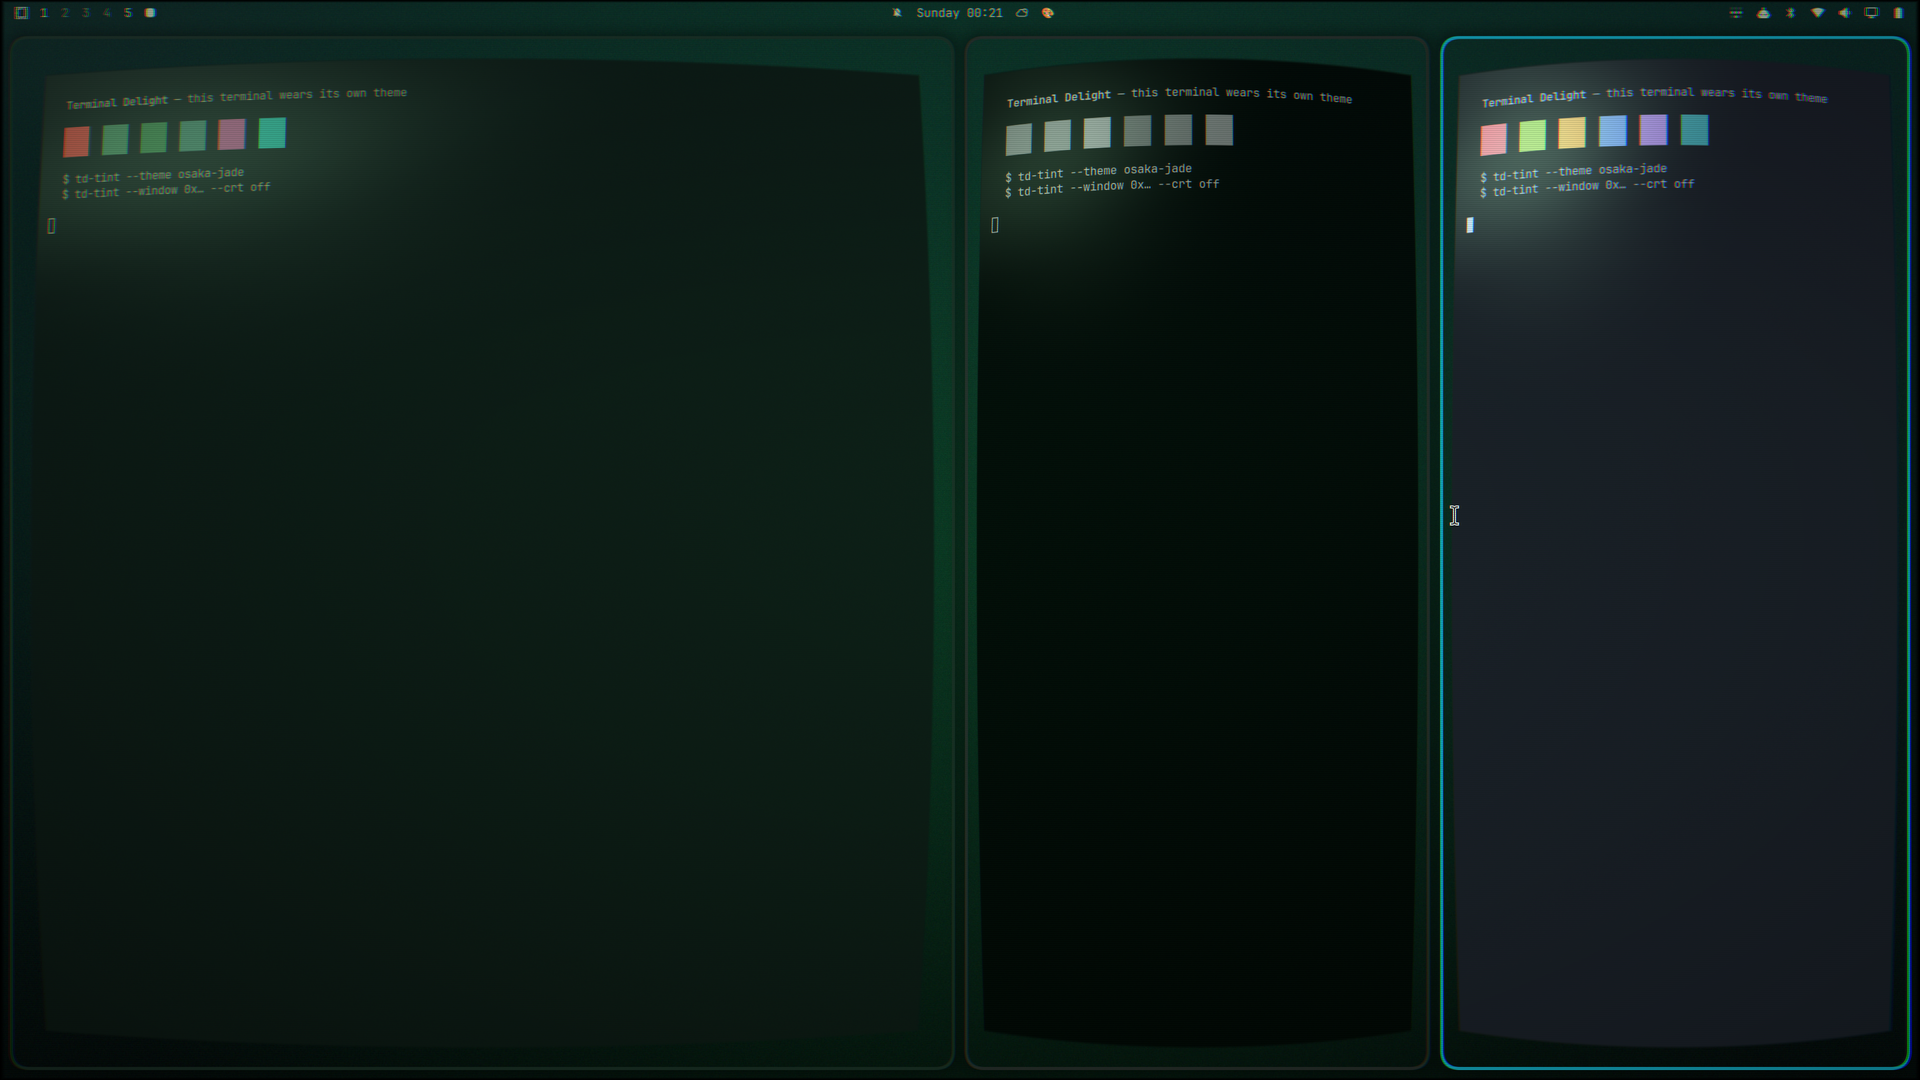
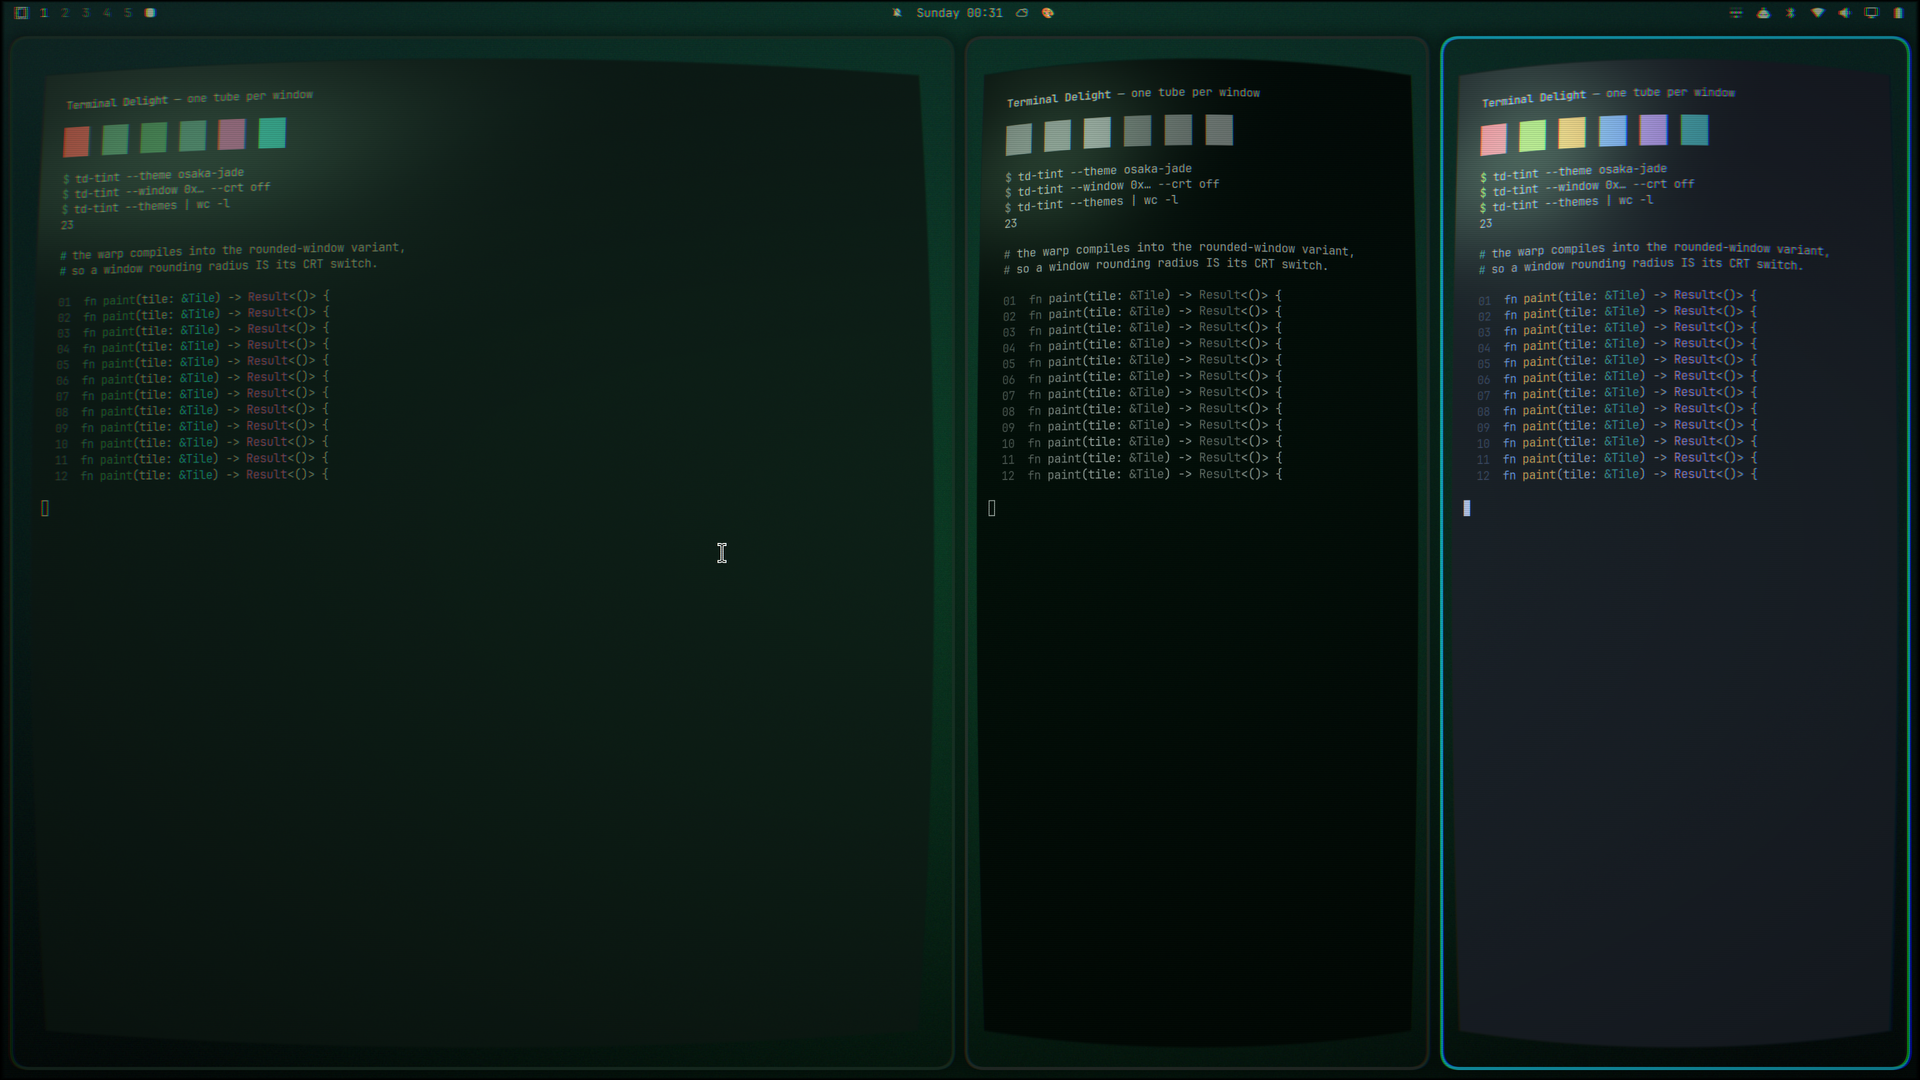
Show the tube, and stop telling people to log out
`hyprctl reload` arms the per-window shaders. This repo — and the installer in
the theme repo, and the Hyprland docs by implication — said a relogin was
needed, and it is not. Verified by pixel on 0.56: install the shaders, reload,
and the windows bow on the next frame. Telling someone to end their session to
try a visual effect is a large ask for something that costs one command.

That also made the picture possible. The overlay screenshot CANNOT show the
warp: layer-shell surfaces are not warped, so a photograph of the picker never
contains the thing its CRT switch turns on. `docs/tube.png` is a bare pane —
bowed lines, glare hotspot top-left — and `bin/shoot` now produces it from the
same run, with panes full of text so the bow has something to bend.

diff --git a/README.md b/README.md
@@ -33,16 +33,23 @@ brushes away everywhere.
 
 ## The tube, per tile
 
+![a terminal pane behind the barrel warp, with the glare hotspot top-left](docs/tube.png)
+
 Terminal Delight's desktop half draws every window as curved glass — a barrel
 warp and a glass glare, one tube per window. **CRT** turns that on or off for
 one tile; **CRT ALL** does the workspace.
 
+(The overlay screenshot above cannot show this: layer-shell surfaces are not
+warped, so a picture *of* the picker never contains the thing the switch turns
+on. This is a bare pane.)
+
 It works because of where the warp lives. `shaders/surface.frag` compiles its
 warp and glare only into the *rounded-window* variant, so a window's rounding
 radius is its CRT power switch. That is not a trick — it is the only live lever
-there is. Hyprland reads window shaders once at startup, so the shader itself
-cannot be swapped while you are looking at it, and the screen shader can only be
-swapped at the cost of wedging `wlr-screencopy` for hours. Rounding is a
+there is. A window shader is loaded with Hyprland's config, so swapping it
+means editing a file and reloading the compositor — not something a picker can
+do per tile, per click — and the *screen* shader can only be swapped at the
+cost of wedging `wlr-screencopy` for hours. Rounding is a
 per-window property the compositor already honours, live, per window, and it is
 exactly the one the shader keys off.
 
@@ -111,8 +118,8 @@ gated on the collector draining rather than on a timer, and a document past
   ([omarchy-terminal-delight-theme](https://github.com/parker-brown-family/omarchy-terminal-delight-theme)
   **v0.3.0 or later** → `./install-variants.sh` installs it).
 - **For the CRT switches:** the per-window warp, from that same repo's
-  `./install-curve.sh`. Hyprland reads window shaders at startup, so it takes
-  effect at your next login. Without it the switches are simply not drawn.
+  `./install-curve.sh` — which reloads Hyprland for you, no relogin. Without
+  it the switches are simply not drawn.
 - **For Terminal Delight windows:** a `terminal-delight` build with the control
   socket (`feat/td-paint-mode` or later). Terminals started from older builds
   can't be reached — reopen them.
